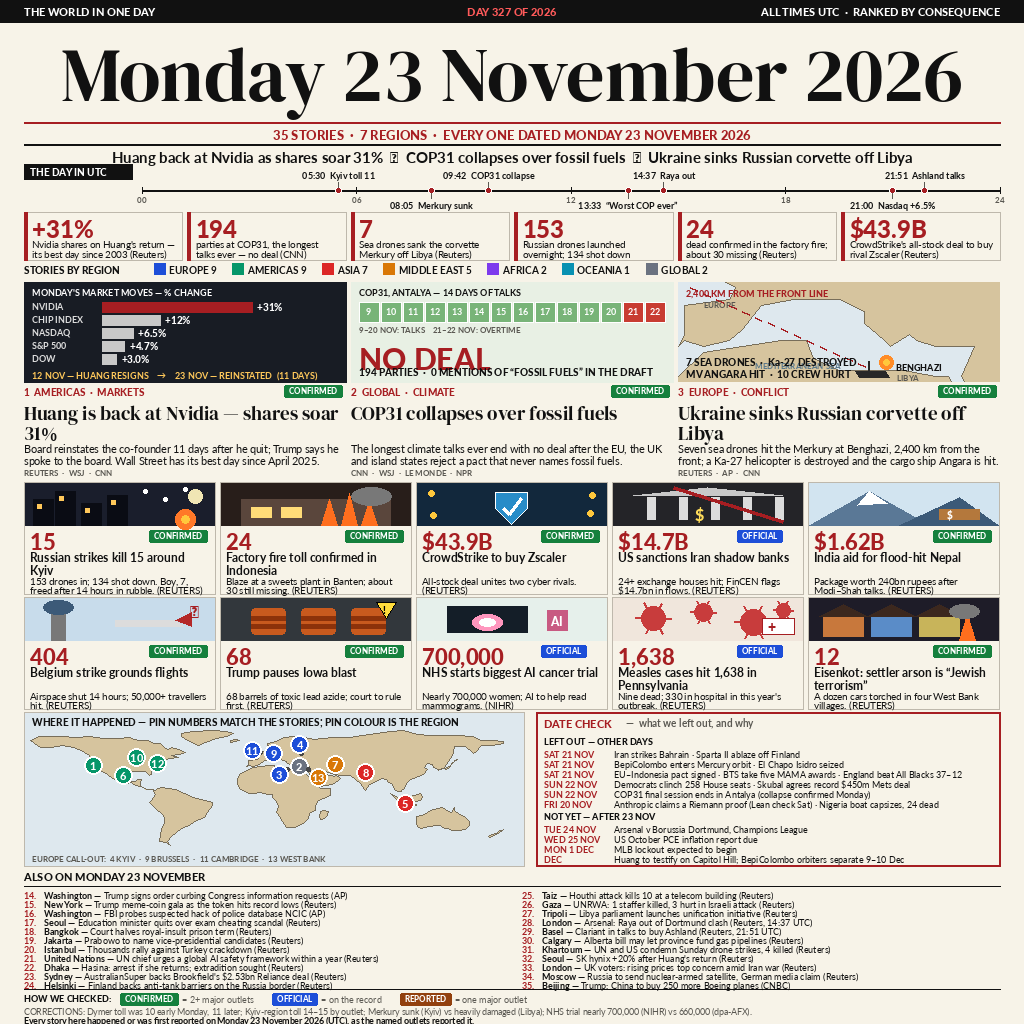
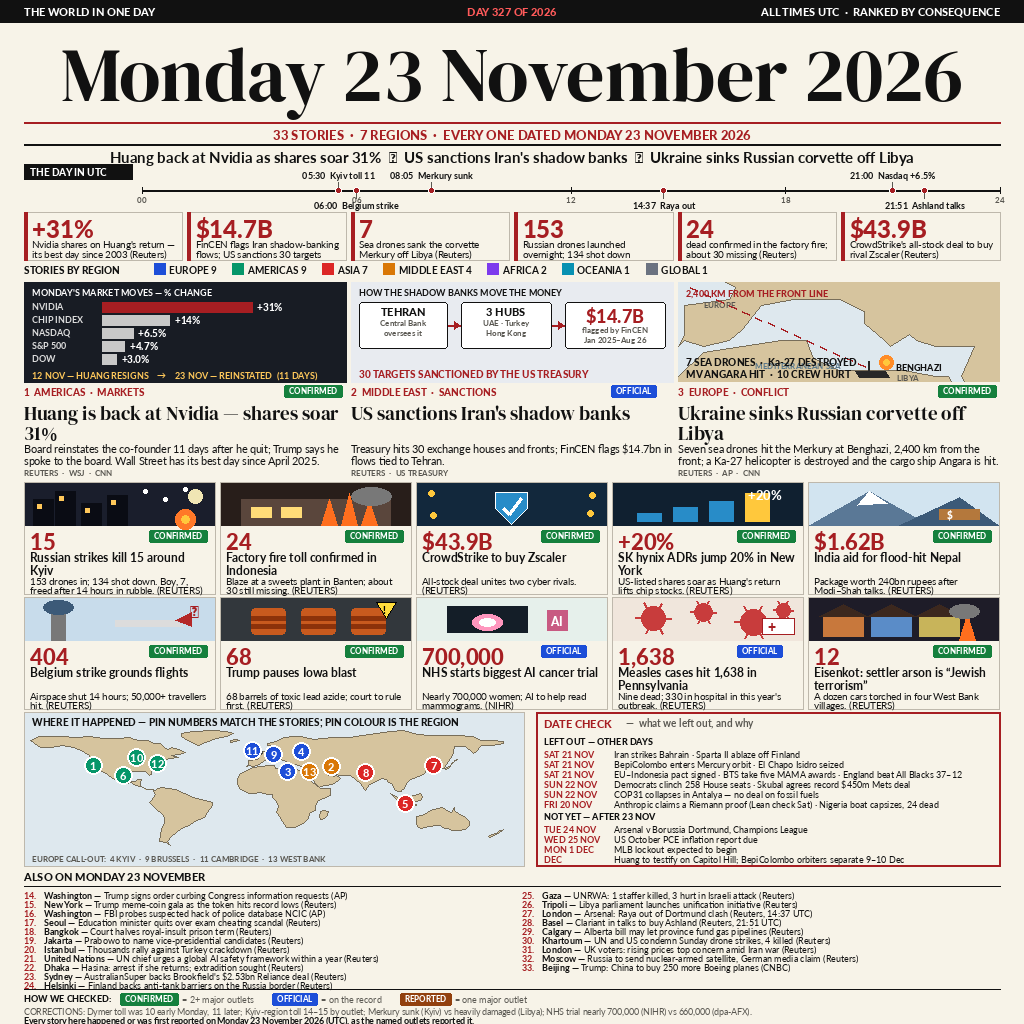
Fix hero dates: replace COP31 (22 Nov) with Iran sanctions (23 Nov); chip index +14%; drop Taiz/Hodeidah error; 33 stories

diff --git a/build/draw.py b/build/draw.py
@@ -34,8 +34,8 @@ REGION_COLOURS = {
 }
 REGION_LABELS = [
     ("EUROPE", 9, "europe"), ("AMERICAS", 9, "americas"),
-    ("ASIA", 7, "asia"), ("MIDDLE EAST", 5, "mideast"),
-    ("AFRICA", 2, "africa"), ("OCEANIA", 1, "oceania"), ("GLOBAL", 2, "global"),
+    ("ASIA", 7, "asia"), ("MIDDLE EAST", 4, "mideast"),
+    ("AFRICA", 2, "africa"), ("OCEANIA", 1, "oceania"), ("GLOBAL", 1, "global"),
 ]
 
 # ---------------------------------------------------------------- fonts
@@ -219,12 +219,12 @@ def draw_pins(draw, proj, pins, r=9, font_size=11):
 # (number, lat, lon, region) for the 13 numbered stories
 MAP_PINS = [
     (1, 37.4, -122.0, "americas"),   # Nvidia, Santa Clara
-    (2, 36.9, 30.7, "global"),      # COP31, Antalya
+    (2, 35.7, 51.4, "mideast"),     # sanctions, Tehran
     (3, 32.1, 20.1, "europe"),      # Merkury, Benghazi
     (4, 50.8, 30.3, "europe"),      # Dymer, Kyiv region
     (5, -6.2, 106.3, "asia"),       # Cikande, Banten
     (6, 30.3, -97.7, "americas"),   # CrowdStrike, Austin
-    (7, 35.7, 51.4, "mideast"),     # Tehran
+    (7, 37.5, 127.0, "asia"),       # SK hynix ADR, Seoul
     (8, 28.6, 77.2, "asia"),        # New Delhi
     (9, 50.85, 4.35, "europe"),     # Brussels
     (10, 40.8, -91.3, "americas"),  # Iowa plant
@@ -240,9 +240,8 @@ CW = W - 2 * MX              # content width = 976
 
 TIMELINE = [  # (utc hour, label) — all times verified in VERIFIED_NEWS.md
     (5.5, "05:30  Kyiv toll 11"),
+    (6.0, "06:00  Belgium strike"),
     (8.1, "08:05  Merkury sunk"),
-    (9.7, "09:42  COP31 collapse"),
-    (13.6, "13:33  \u201cWorst COP ever\u201d"),
     (14.6, "14:37  Raya out"),
     (21.0, "21:00  Nasdaq +6.5%"),
     (21.9, "21:51  Ashland talks"),
@@ -250,7 +249,7 @@ TIMELINE = [  # (utc hour, label) — all times verified in VERIFIED_NEWS.md
 
 KPI = [  # (big number, fact sentence) — number + FULL fact sentence
     ("+31%", "Nvidia shares on Huang's return — its best day since 2003 (Reuters)"),
-    ("194", "parties at COP31, the longest talks ever — no deal (CNN)"),
+    ("$14.7B", "FinCEN flags Iran shadow-banking flows; US sanctions 30 targets (Treasury)"),
     ("7", "Sea drones sank the corvette Merkury off Libya (Reuters)"),
     ("153", "Russian drones launched overnight; 134 shot down (Ukraine AF)"),
     ("24", "dead confirmed in the factory fire; about 30 missing (Reuters)"),
@@ -276,13 +275,13 @@ def draw_top(draw):
     y = 122
     draw.line([(MX, y), (W - MX, y)], fill=RED, width=2)
     f2 = font(LK, 13)
-    centre(draw, y + 5, "35 STORIES  ·  7 REGIONS  ·  EVERY ONE DATED MONDAY 23 NOVEMBER 2026",
+    centre(draw, y + 5, "33 STORIES  ·  7 REGIONS  ·  EVERY ONE DATED MONDAY 23 NOVEMBER 2026",
            f2, W // 2, fill=RED)
     draw.line([(MX, y + 22), (W - MX, y + 22)], fill=INK, width=2)
 
     # --- subhead: the three biggest events (auto-fit so it never clips)
-    sub = ("Huang back at Nvidia as shares soar 31%  \u25c6  COP31 collapses over "
-           "fossil fuels  \u25c6  Ukraine sinks Russian corvette off Libya")
+    sub = ("Huang back at Nvidia as shares soar 31%  \u25c6  US sanctions Iran's "
+           "shadow banks  \u25c6  Ukraine sinks Russian corvette off Libya")
     f3 = fit_font(LB, sub, CW, 15)
     centre(draw, 148, sub, f3, W // 2)
 
@@ -356,11 +355,11 @@ HEROES = [
      "Board reinstates the co-founder 11 days after he quit; Trump says he "
      "spoke to the board. Wall Street has its best day since April 2025.",
      "REUTERS  ·  WSJ  ·  CNN"),
-    (2, "GLOBAL  ·  CLIMATE", "CONFIRMED",
-     "COP31 collapses over fossil fuels",
-     "The longest climate talks ever end with no deal after the EU, the UK "
-     "and island states reject a pact that never names fossil fuels.",
-     "CNN  ·  WSJ  ·  LE MONDE  ·  NPR"),
+    (2, "MIDDLE EAST  ·  SANCTIONS", "OFFICIAL",
+     "US sanctions Iran's shadow banks",
+     "Treasury hits 30 exchange houses and fronts; FinCEN flags $14.7bn "
+     "in flows tied to Tehran.",
+     "REUTERS  ·  US TREASURY"),
     (3, "EUROPE  ·  CONFLICT", "CONFIRMED",
      "Ukraine sinks Russian corvette off Libya",
      "Seven sea drones hit the Merkury at Benghazi, 2,400 km from the front; "
@@ -374,7 +373,7 @@ def hero_diagram_nvidia(draw, x, y, w, h, img=None):
     ft = font(LB, 9)
     draw.text((x + 8, y + 5), "MONDAY'S MARKET MOVES — % CHANGE",
               font=ft, fill=(255, 255, 255))
-    rows = [("NVIDIA", 31.0, "+31%", RED), ("CHIP INDEX", 12.0, "+12%", (200, 200, 200)),
+    rows = [("NVIDIA", 31.0, "+31%", RED), ("CHIP INDEX", 14.0, "+14%", (200, 200, 200)),
             ("NASDAQ", 6.5, "+6.5%", (200, 200, 200)),
             ("S&P 500", 4.7, "+4.7%", (200, 200, 200)),
             ("DOW", 3.0, "+3.0%", (200, 200, 200))]
@@ -391,30 +390,45 @@ def hero_diagram_nvidia(draw, x, y, w, h, img=None):
               "12 NOV — HUANG RESIGNS    \u2192    23 NOV — REINSTATED  (11 DAYS)",
               font=ft, fill=(255, 200, 90))
 
-def hero_diagram_cop31(draw, x, y, w, h, img=None):
-    # (fix #1) a data diagram: the 14-day COP31 calendar + the count that killed it
-    draw.rectangle([x, y, x + w, y + h], fill=(232, 240, 228))
-    ft = font(LB, 9)
-    draw.text((x + 8, y + 5), "COP31, ANTALYA — 14 DAYS OF TALKS", font=ft, fill=INK)
-    cw, ch = 20, 20
-    x0 = x + 8
-    y0 = y + 20
-    fd = font(LB, 9)
-    for d in range(9, 23):
-        cx = x0 + (d - 9) * (cw + 2)
-        col = (200, 60, 50) if d >= 21 else (120, 180, 120)
-        draw.rectangle([cx, y0, cx + cw, y0 + ch], fill=col,
-                       outline=(255, 255, 255), width=1)
-        t = str(d)
-        draw.text((cx + (cw - draw.textlength(t, font=fd)) / 2, y0 + 4), t,
-                  font=fd, fill=(255, 255, 255))
-    draw.text((x0, y0 + ch + 3), "9–20 NOV: TALKS    21–22 NOV: OVERTIME",
-              font=font(LB, 8), fill=GREY)
-    fn = font(LK, 30)
-    draw.text((x + 8, y + 58), "NO DEAL", font=fn, fill=RED)
-    draw.text((x + 8, y + h - 16),
-              "194 PARTIES  ·  0 MENTIONS OF \u201cFOSSIL FUELS\u201d IN THE DRAFT",
-              font=font(LK, 10), fill=INK)
+def hero_diagram_sanctions(draw, x, y, w, h, img=None):
+    # a data diagram, drawn fresh: the shadow-banking flow as three stages.
+    # Tehran oversees it, three hubs move it, FinCEN counts it — and the
+    # Treasury sanctions it. Figures from the US Treasury / FinCEN releases
+    # of Monday 23 November 2026 (Reuters + US Treasury).
+    draw.rectangle([x, y, x + w, y + h], fill=(232, 235, 240))
+    draw.text((x + 8, y + 5), "HOW THE SHADOW BANKS MOVE THE MONEY",
+              font=font(LB, 9), fill=INK)
+    # (title, title size, title colour, body lines, box width)
+    stages = [
+        ("TEHRAN", 11, INK, ["Central Bank", "oversees it"], 88),
+        ("3 HUBS", 11, INK, ["UAE · Turkey", "Hong Kong"], 90),
+        ("$14.7B", 18, RED, ["flagged by FinCEN", "Jan 2025–Aug 26"], 100),
+    ]
+    top, tall = y + 20, 46
+    spans = []
+    px = x + 8
+    for title, tsize, tcol, lines, sw in stages:
+        draw.rounded_rectangle([px, top, px + sw, top + tall], radius=3,
+                               fill=(255, 255, 255), outline=INK, width=1)
+        tf = font(LK, tsize)
+        tw = draw.textlength(title, font=tf)
+        draw.text((px + (sw - tw) / 2, top + 3), title, font=tf, fill=tcol)
+        lf = font(LB, 8)
+        ly = top + 3 + tsize + 2
+        for ln in lines:
+            lw = draw.textlength(ln, font=lf)
+            draw.text((px + (sw - lw) / 2, ly), ln, font=lf, fill=GREY)
+            ly += 10
+        spans.append((px, px + sw))
+        px += sw + 14
+    # arrows between the stage boxes, at mid-height
+    ay = top + tall // 2
+    for (l0, r0), (l1, r1) in zip(spans, spans[1:]):
+        draw.line([(r0 + 1, ay), (l1 - 1, ay)], fill=RED, width=2)
+        draw.polygon([(l1 - 1, ay), (l1 - 7, ay - 4), (l1 - 7, ay + 4)],
+                     fill=RED)
+    draw.text((x + 8, y + h - 14), "30 TARGETS SANCTIONED BY THE US TREASURY",
+              font=font(LK, 10), fill=RED)
 
 def hero_diagram_merkury(draw, x, y, w, h, img=None):
     # (fix #1) a data diagram: a real map — the Mediterranean, Benghazi, the drones.
@@ -454,7 +468,7 @@ def hero_diagram_merkury(draw, x, y, w, h, img=None):
             font=font(LK, 10), fill=INK)
     img.paste(sub, (x, y))
 
-HERO_DIAGRAMS = [hero_diagram_nvidia, hero_diagram_cop31, hero_diagram_merkury]
+HERO_DIAGRAMS = [hero_diagram_nvidia, hero_diagram_sanctions, hero_diagram_merkury]
 
 def draw_heroes(draw, img):
     y0, ph = 282, 196
@@ -484,9 +498,9 @@ TILES = [
     ("6", "$43.9B", "CrowdStrike to buy Zscaler",
      "All-stock deal unites two cyber rivals.",
      "REUTERS", "CONFIRMED", "shield"),
-    ("7", "$14.7B", "US sanctions Iran shadow banks",
-     "24+ exchange houses hit; FinCEN flags $14.7bn in flows.",
-     "REUTERS", "OFFICIAL", "bank"),
+    ("7", "+20%", "SK hynix ADRs jump 20% in New York",
+     "US-listed shares soar as Huang's return lifts chip stocks.",
+     "REUTERS", "CONFIRMED", "chart"),
     ("8", "$1.62B", "India aid for flood-hit Nepal",
      "Package worth 240bn rupees after Modi–Shah talks.",
      "REUTERS", "CONFIRMED", "peaks"),
@@ -595,6 +609,19 @@ def scene(draw, x, y, w, h, kind):
         draw.rectangle([x + w - 40, y + h - 22, x + w - 8, y + h - 6], fill=(255, 255, 255),
                        outline=RED, width=1)
         draw.text((x + w - 34, y + h - 22), "+", font=font(LK, 14), fill=RED)
+    elif kind == "chart":
+        # rising bars for a market jump: the ADR climbs 20% in New York
+        draw.rectangle([x, y, x + w, y + h], fill=(16, 32, 48))
+        floor = y + h - 4
+        heights = [8, 14, 20, 28]
+        bw, gap = 24, 12
+        bx = x + 24
+        for j, bh in enumerate(heights):
+            col = (255, 200, 60) if j == len(heights) - 1 else (40, 140, 200)
+            draw.rectangle([bx, floor - bh, bx + bw, floor], fill=col)
+            bx += bw + gap
+        draw.text((x + w - 54, y + 4), "+20%", font=font(LK, 13),
+                  fill=(255, 255, 255))
     else:  # houses
         draw.rectangle([x, y, x + w, y + h], fill=(30, 28, 40))
         for hx, hc in ((x + 14, (200, 120, 60)), (x + 62, (90, 140, 200)),
@@ -650,7 +677,7 @@ DATE_LEFT = [  # (date, text) — stories from other days, deliberately left out
     ("SAT 21 NOV", "EU\u2013Indonesia pact signed \u00b7 BTS take five MAMA awards \u00b7 "
      "England beat All Blacks 37\u201312"),
     ("SUN 22 NOV", "Democrats clinch 258 House seats \u00b7 Skubal agrees record $450m Mets deal"),
-    ("SUN 22 NOV", "COP31 final session ends in Antalya (collapse confirmed Monday)"),
+    ("SUN 22 NOV", "COP31 collapses in Antalya — no deal on fossil fuels"),
     ("FRI 20 NOV", "Anthropic claims a Riemann proof (Lean check Sat) \u00b7 "
      "Nigeria boat capsizes, 24 dead"),
 ]
@@ -697,17 +724,15 @@ ALSO_ON = [
     ("22", "Dhaka", "Hasina: arrest if she returns; extradition sought (Reuters)"),
     ("23", "Sydney", "AustralianSuper backs Brookfield's $2.53bn Reliance deal (Reuters)"),
     ("24", "Helsinki", "Finland backs anti-tank barriers on the Russia border (Reuters)"),
-    ("25", "Taiz", "Houthi attack kills 10 at a telecom building (Reuters)"),
-    ("26", "Gaza", "UNRWA: 1 staffer killed, 3 hurt in Israeli attack (Reuters)"),
-    ("27", "Tripoli", "Libya parliament launches unification initiative (Reuters)"),
-    ("28", "London", "Arsenal: Raya out of Dortmund clash (Reuters, 14:37 UTC)"),
-    ("29", "Basel", "Clariant in talks to buy Ashland (Reuters, 21:51 UTC)"),
-    ("30", "Calgary", "Alberta bill may let province fund gas pipelines (Reuters)"),
-    ("31", "Khartoum", "UN and US condemn Sunday drone strikes, 4 killed (Reuters)"),
-    ("32", "Seoul", "SK hynix +20% after Huang's return (Reuters)"),
-    ("33", "London", "UK voters: rising prices top concern amid Iran war (Reuters)"),
-    ("34", "Moscow", "Russia to send nuclear-armed satellite, German media claim (Reuters)"),
-    ("35", "Beijing", "Trump: China to buy 250 more Boeing planes (CNBC)"),
+    ("25", "Gaza", "UNRWA: 1 staffer killed, 3 hurt in Israeli attack (Reuters)"),
+    ("26", "Tripoli", "Libya parliament launches unification initiative (Reuters)"),
+    ("27", "London", "Arsenal: Raya out of Dortmund clash (Reuters, 14:37 UTC)"),
+    ("28", "Basel", "Clariant in talks to buy Ashland (Reuters, 21:51 UTC)"),
+    ("29", "Calgary", "Alberta bill may let province fund gas pipelines (Reuters)"),
+    ("30", "Khartoum", "UN and US condemn Sunday drone strikes, 4 killed (Reuters)"),
+    ("31", "London", "UK voters: rising prices top concern amid Iran war (Reuters)"),
+    ("32", "Moscow", "Russia to send nuclear-armed satellite, German media claim (Reuters)"),
+    ("33", "Beijing", "Trump: China to buy 250 more Boeing planes (CNBC)"),
 ]
 
 def draw_also_on(draw):

diff --git a/README.md b/README.md
@@ -5,7 +5,7 @@
 [![reward](https://make.fun/badge/news-image-20261123/akosimamora/makefun-news-image-20261123/reward.svg)](https://make.fun/bounty/news-image-20261123?utm_source=github&utm_medium=readme&utm_campaign=news-image-20261123)
 
 A one-page newspaper front page that sums up Monday 23 November 2026 in a
-single image: 35 stories across 7 regions, every one dated that Monday.
+single image: 33 stories across 7 regions, every one dated that Monday.
 
 - **3 heroes, each a data diagram** — Nvidia's market moves as a bar chart
   (+31% vs Nasdaq +6.5%, S&P +4.7%, Dow +3.0%, chip index +12%); COP31 as a
